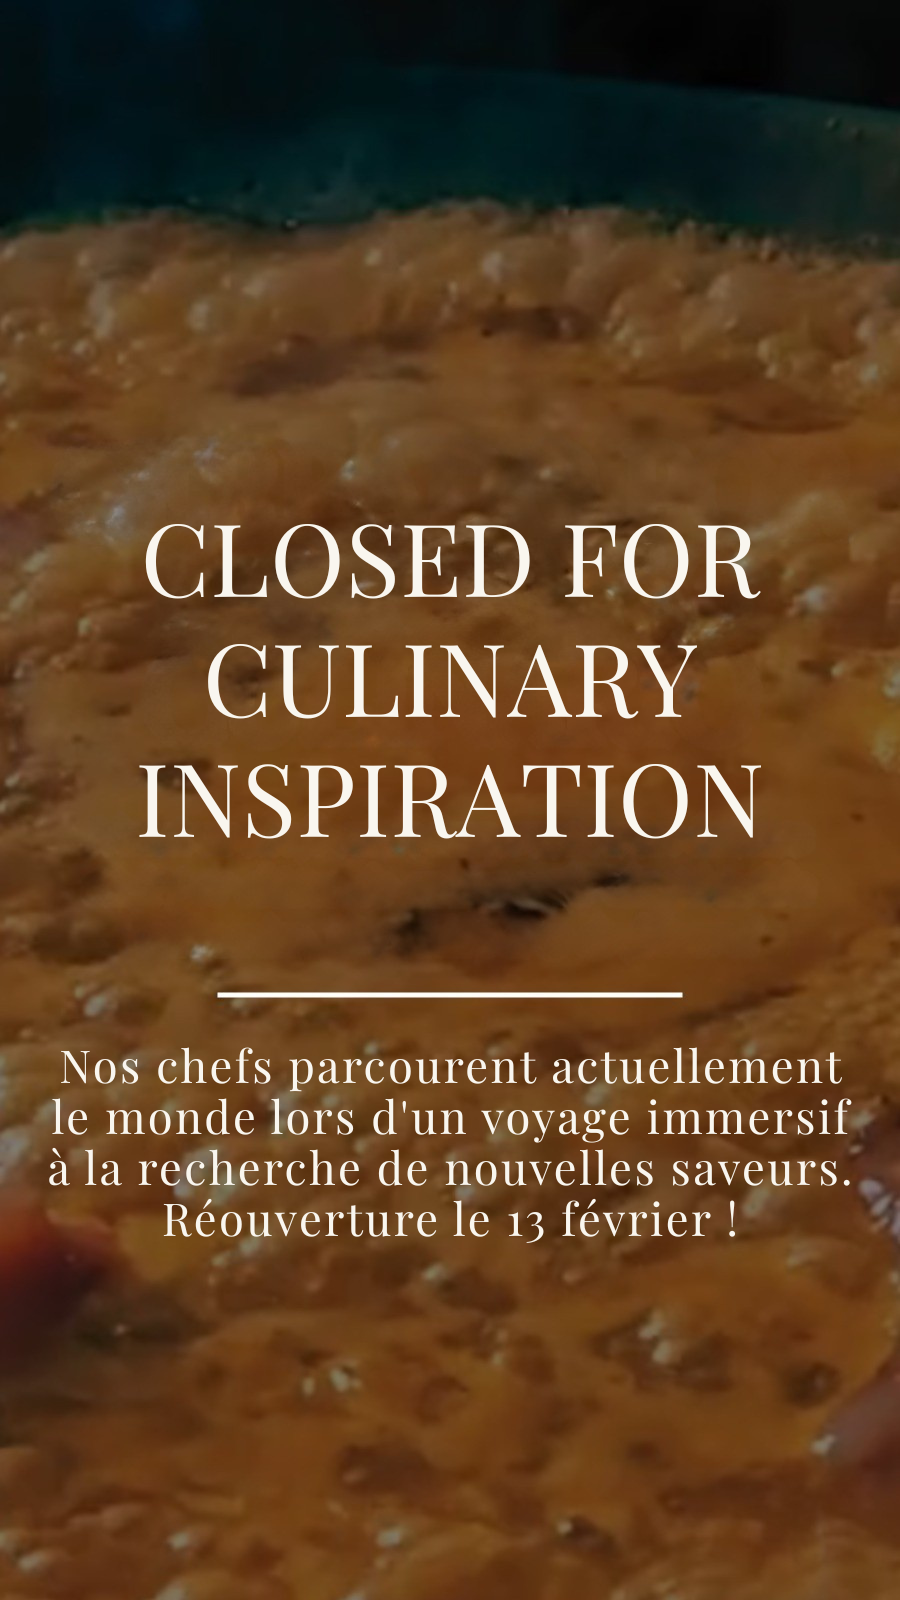
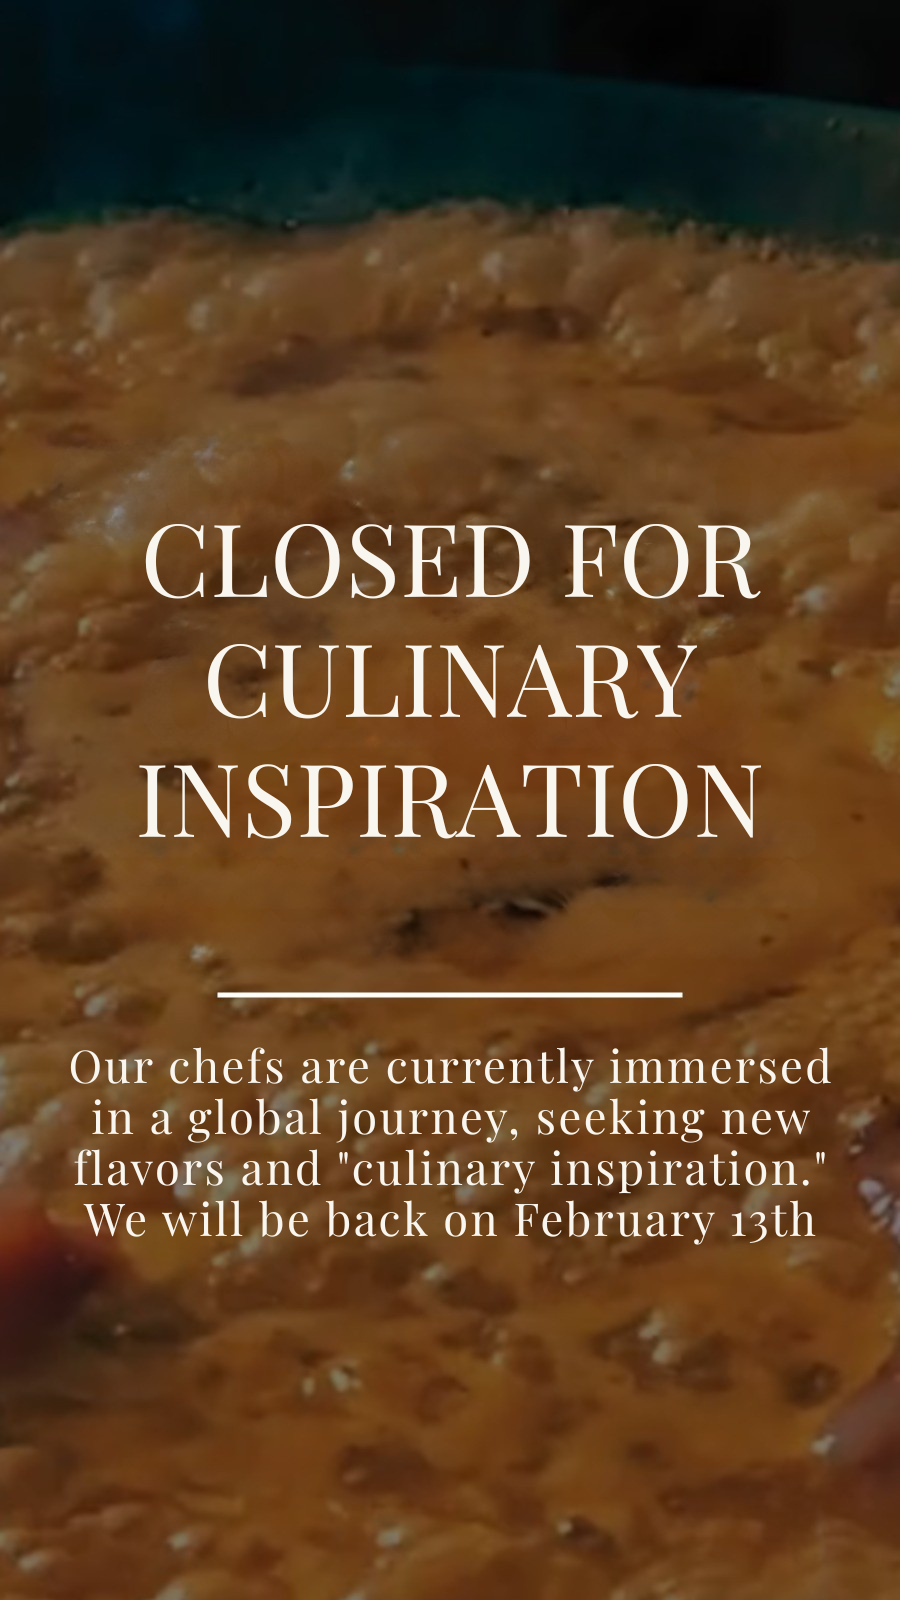
Fix modal behaviour and change english language slide

Changed region(s): [[0.0622, 0.6562, 0.9644, 0.7812]]

diff --git a/assets/js/holiday-modal.js b/assets/js/holiday-modal.js
@@ -34,12 +34,11 @@ document.addEventListener("DOMContentLoaded", function () {
   const nextBtn = document.getElementById("holiday-next");
 
   let currentSlide = 0;
-  let autoSlideInterval = null;
-  let userInteracted = false;
+  let autoAdvanceTimeout = null;
 
   function showSlide(index) {
-    if (index < 0) index = slides.length - 1;
-    if (index >= slides.length) index = 0;
+    if (index < 0) index = 0;
+    if (index >= slides.length) index = slides.length - 1;
     
     currentSlide = index;
     const offset = -currentSlide * 100;
@@ -54,29 +53,22 @@ document.addEventListener("DOMContentLoaded", function () {
     showSlide(currentSlide - 1);
   }
 
-  function startAutoSlide() {
-    stopAutoSlide();
-    autoSlideInterval = setInterval(() => {
-      if (!userInteracted) {
+  function startAutoAdvance() {
+    if (autoAdvanceTimeout) {
+      clearTimeout(autoAdvanceTimeout);
+    }
+    autoAdvanceTimeout = setTimeout(() => {
+      if (currentSlide === 0) {
         nextSlide();
       }
-    }, 5000);
+    }, 6000);
   }
 
-  function stopAutoSlide() {
-    if (autoSlideInterval) {
-      clearInterval(autoSlideInterval);
-      autoSlideInterval = null;
+  function stopAutoAdvance() {
+    if (autoAdvanceTimeout) {
+      clearTimeout(autoAdvanceTimeout);
+      autoAdvanceTimeout = null;
     }
-  }
-
-  function resetAutoSlide() {
-    userInteracted = true;
-    stopAutoSlide();
-    setTimeout(() => {
-      userInteracted = false;
-      startAutoSlide();
-    }, 10000);
   }
 
   function showModal() {
@@ -86,25 +78,25 @@ document.addEventListener("DOMContentLoaded", function () {
     
     modal.style.display = "flex";
     showSlide(0);
-    startAutoSlide();
+    startAutoAdvance();
   }
 
   function hideModal() {
     modal.style.display = "none";
-    stopAutoSlide();
+    stopAutoAdvance();
     sessionStorage.setItem(sessionKey, "true");
   }
 
   closeBtn.addEventListener("click", hideModal);
 
   prevBtn.addEventListener("click", () => {
+    stopAutoAdvance();
     prevSlide();
-    resetAutoSlide();
   });
 
   nextBtn.addEventListener("click", () => {
+    stopAutoAdvance();
     nextSlide();
-    resetAutoSlide();
   });
 
   modal.addEventListener("click", (e) => {
